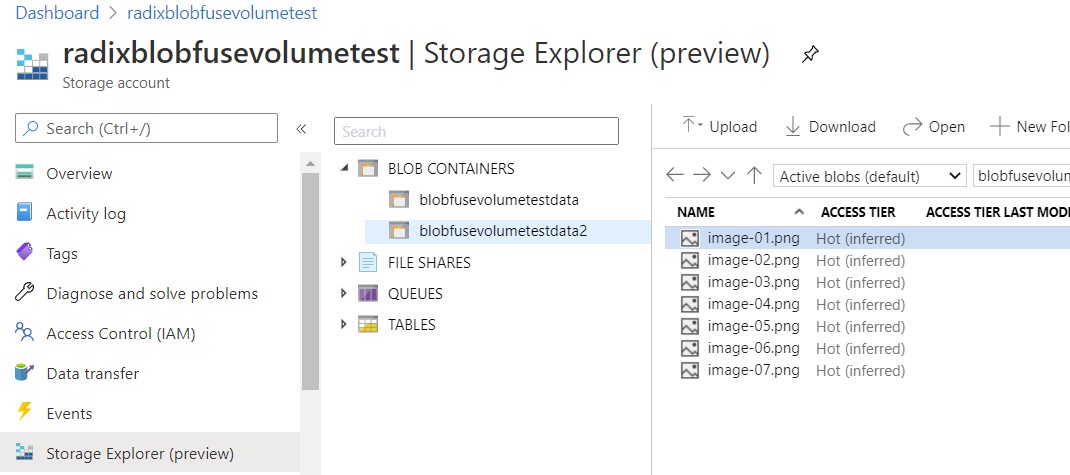
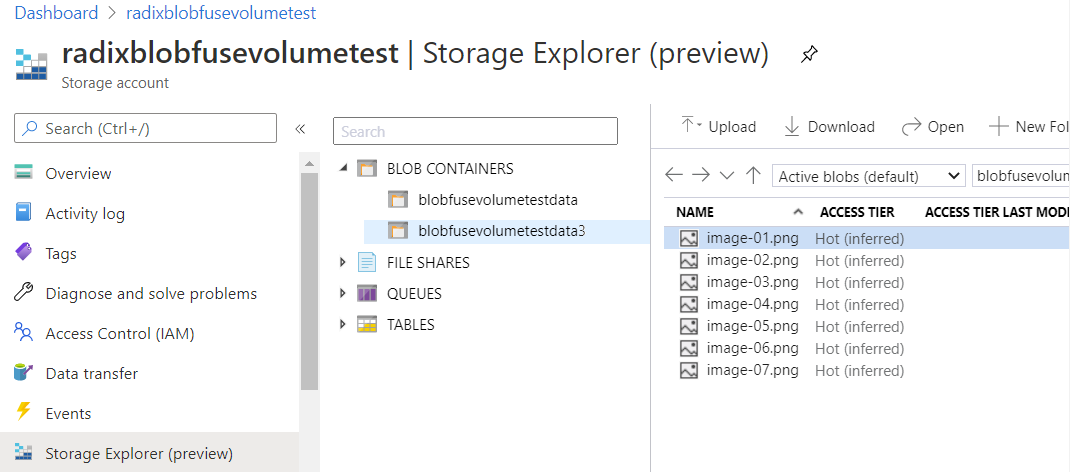
Added documentation for CSI Azure blob storage

diff --git a/public-site/site/guides/volume-mounts/index.md b/public-site/site/guides/volume-mounts/index.md
@@ -5,7 +5,9 @@ parent: ["Guides", "../../guides.html"]
 toc: true
 ---
 
-Currently, we support only one type of volume mount. The supported type is to mount Azure Blob Container using blobfuse FlexVolume driver for Kubernetes. See [this](https://github.com/Azure/kubernetes-volume-drivers/tree/master/flexvolume/blobfuse) for more information.
+The supported volume mount type is to mount CSI Azure Blob Container, using CSI Azure blob driver for Kubernetes. See [this](https://github.com/kubernetes-sigs/blob-csi-driver) for more information.
+
+>Blobfuse FlexVolume is considered obsolete and recommended being replaced with CSI Azure blob driver.
 
 In order to make use of this functionality you have to:
 
@@ -21,11 +23,11 @@ Name of container
 
 ```yaml
       environmentConfig:
-        - environment: prod
+        - environment: dev
           volumeMounts:
-            - type: blob
+            - type: azure-blob
               name: storage
-              container: blobfusevolumetestdata
+              storage: blobfusevolumetestdata
               path: /app/image-storage
 ```
 
@@ -33,7 +35,7 @@ Name of container
 
 ![SetSecrets](SetSecrets.png)
 
-This results in the Kubernetes deployment holding the volume mount in its spec:
+This results in the Kubernetes deployment holding the volume mount in PersistentVolumeClaim and its StorageClass:
 
 ```yaml
       spec:
@@ -42,23 +44,16 @@ This results in the Kubernetes deployment holding the volume mount in its spec:
         ...
       volumeMounts:
         - mountPath: /app/image-storage
-          name: blobfuse-frontend-storage
+          name: csi-az-blob-frontend-storage1-blobfusevolumetestdata
         ...
       volumes:
-        - flexVolume:
-            driver: azure/blobfuse
-            options:
-              container: blobfusevolumetestdata
-              mountoptions: --file-cache-timeout-in-seconds=120
-              name: storage2
-              tmppath: /tmp/radix-blob-fuse-example-prod/frontend/prod/blob/storage/blobfusevolumetestdata
-            secretRef:
-              name: frontend-storage-blobfusecreds
-          name: blobfuse-frontend-storage
+        - name: csi-az-blob-frontend-storage-blobfusevolumetestdata
+          persistentVolumeClaim:
+            claimName: pvc-csi-az-blob-frontend-storage-blobfusevolumetestdata
 ```
 and files appear inside the container. If there are folders within blob container - it will exist in the pod's container as well
 ```shell
-kubectl exec -it -n radix-blob-fuse-example-prod deploy/frontend -- ls -l /app/image-storage
+kubectl exec -it -n radix-csi-azure-example-dev deploy/frontend -- ls -l /app/image-storage
 total 0
 -rwxrwxrwx    1 root     root         21133 Nov 13 13:56 image-01.png
 -rwxrwxrwx    1 root     root         21989 Nov 13 13:56 image-02.png
@@ -71,6 +66,8 @@ Multiple volume mounts are also supported
 * for containers within multiple storage accounts
 * for containers within storage accounts within multiple subscriptions and tenants
 
+Not supported mount from same blob container to different folders within one component.
+
 Multiple containers within one storage account
   ![MultipleContainers](MultipleContainers.png)
 
@@ -81,16 +78,16 @@ To add multiple volumes
     * specify `path` for each `volumeMount`, unique within `volumeMounts` of an environment
     ```yaml
           environmentConfig:
-            - environment: prod
+            - environment: dev
               volumeMounts:
-                - type: blob
+                - type: azure-blob
                   name: storage1
-                  container: blobfusevolumetestdata
+                  storage: blobfusevolumetestdata
                   path: /app/image-storage
-                - type: blob
-                  name: storage2
-                  container: blobfusevolumetestdata2
-                  path: /app/image-storage2
+                - type: azure-blob
+                  name: storage3
+                  storage: blobfusevolumetestdata3
+                  path: /app/image-storage3
     ```
 - After environment has been built, set the generated secret to account name and key, found in step 1 - for each volume. This should ensure that key value is Consistent status. It is recommended to restart a component after a all secrets have been set in the console
 
@@ -105,38 +102,26 @@ This results in the Kubernetes deployment holding the volume mounts in its spec:
         ...
       volumeMounts:
         - mountPath: /app/image-storage
-          name: blobfuse-frontend-storage
+          name: csi-az-blob-frontend-storage1-blobfusevolumetestdata
+        - mountPath: /app/image-storage3
+          name: csi-az-blob-frontend-storage3-blobfusevolumetestdata3
         ...
-        volumes:
-          - flexVolume:
-              driver: azure/blobfuse
-              options:
-                container: blobfusevolumetestdata
-                mountoptions: --file-cache-timeout-in-seconds=120
-                name: storage1
-                tmppath: /tmp/radix-blob-fuse-example-prod/frontend/prod/blob/storage1/blobfusevolumetestdata
-              secretRef:
-                name: frontend-storage1-blobfusecreds
-            name: blobfuse-frontend-storage1
-          - flexVolume:
-              driver: azure/blobfuse
-              options:
-                container: blobfusevolumetestdata2
-                mountoptions: --file-cache-timeout-in-seconds=120
-                name: storage2
-                tmppath: /tmp/radix-blob-fuse-example-prod/frontend/prod/blob/storage2/blobfusevolumetestdata2
-              secretRef:
-                name: frontend-storage2-blobfusecreds
-            name: blobfuse-frontend-storage2
+      volumes:
+        - name: csi-az-blob-frontend-storage1-blobfusevolumetestdata
+          persistentVolumeClaim:
+            claimName: pvc-csi-az-blob-frontend-storage1-blobfusevolumetestdata
+        - name: csi-az-blob-frontend-storage3-blobfusevolumetestdata3
+          persistentVolumeClaim:
+            claimName: pvc-csi-az-blob-frontend-storage3-blobfusevolumetestdata3
 ```
 and files appear inside the container
 
 ```shell
-kubectl exec -it -n radix-blob-fuse-example-prod deploy/frontend -- ls -lR /app
+kubectl exec -it -n radix-csi-azure-example-dev deploy/frontend -- ls -lR /app
 /app:
 total 4
 drwxrwxrwx    2 root     root          4096 Dec 11 15:10 image-storage
-drwxrwxrwx    2 root     root          4096 Dec 11 15:10 image-storage2
+drwxrwxrwx    2 root     root          4096 Dec 11 15:10 image-storage3
 -rw-r--r--    1 root     root          1343 Dec 11 11:52 index.html
 
 /app/image-storage:
@@ -147,7 +132,7 @@ total 0
 -rwxrwxrwx    1 root     root         48391 Nov 26 14:50 image-06.png
 -rwxrwxrwx    1 root     root         47732 Nov 26 14:50 image-07.png
 
-/app/image-storage2:
+/app/image-storage3:
 total 0
 -rwxrwxrwx    1 root     root         27803 Dec 11 11:11 image-01.png
 -rwxrwxrwx    1 root     root         28692 Dec 11 11:11 image-02.png

diff --git a/public-site/site/docs/reference-radix-config/index.md b/public-site/site/docs/reference-radix-config/index.md
@@ -337,7 +337,7 @@ components:
 
 > See [this](../../guides/deploy-only/) guide on how make use of `imageTagName` in a deploy-only scenario.
 
-#### `volumeMounts`
+### `volumeMounts`
 
 ```yaml
 spec:
@@ -346,15 +346,27 @@ spec:
       environmentConfig:
         - environment: prod
           volumeMounts:
-            - type: blob
+            - type: azure-blob
               name: volume-name
-              container: container-name
+              storage: container-name
               path: /path/in/container/to/mount/to
 ```
 
-The `volumeMounts` field of a component environment config is used to be able to mount a blob container into the running container.
+The `volumeMounts` field configures volume mounts within the running component.
 
-The `volumeMounts` field contains the following sub-fields: `type` field can currently only be set to `blob`, `name` is the name of the volume (unique within `volumeMounts` list), `container` is the name of the blob container, and `path` is the folder to mount to inside the running component.
+#### `volumeMounts` settings: 
+* `name` - the name of the volume. Unique within `volumeMounts` list of a component
+* `type` - type of storage. Supported types: 
+  * `azure-blob` - mount a container from blob in [Azure storage account](https://docs.microsoft.com/en-us/azure/storage/common/storage-account-overview). Uses [CSI Azure blob storage driver](https://github.com/kubernetes-sigs/blob-csi-driver). Replaces obsolete type `blob` for Flex Volume obsolete driver.
+
+_Applicable for type: `azure-blob`_
+* `storage` - name of the blob container.
+* `path` - the folder inside the running container, where the external storage is mounted.
+* `gid` - Group ID (number) of a [mounted volume owner](https://kubernetes.io/docs/reference/generated/kubernetes-api/v1.21/#podsecuritycontext-v1-core). It is a Group ID of a user in the running container within component replicas. Usually a user, which is a member of one or multiple [groups](https://en.wikipedia.org/wiki/Group_identifier), is specified in the `Dockerfile` for the component with command `USER`. Read [more details](https://www.radix.equinor.com/docs/topic-docker/#running-as-non-root) about specifying user within `Dockerfile`. It is recommended to use because Blobfuse driver do [not honor fsGroup securityContext settings](https://github.com/kubernetes-sigs/blob-csi-driver/blob/master/docs/driver-parameters.md).  
+
+There are [optional settings](../../guides/volume-mounts/optional-settings/) to fine tune volumes.
+
+Access to the Azure storage need to be set in `secrets` for the component.
 
 > See [this](../../guides/volume-mounts/) guide on how make use of `volumeMounts`.
 
@@ -569,7 +581,7 @@ spec:
       environmentConfig:
         - environment: prod
           volumeMounts:
-            - type: blob
+            - type: azure-blob
               name: volume-name
               container: container-name
               path: /path/in/container/to/mount/to

diff --git a/public-site/site/guides/volume-mounts/optional-settings/index.md b/public-site/site/guides/volume-mounts/optional-settings/index.md
@@ -1,0 +1,31 @@
+---
+title: VolumeMounts
+layout: document
+parent: ["Docs", "../../../docs.html"]
+toc: true
+---
+## [Main settings](../../../docs/reference-radix-config/#volumemounts)
+
+## Optional settings:
+_Applicable for type: `azure-blob`_
+
+* `accessMode` - [access mode](https://kubernetes.io/docs/concepts/storage/persistent-volumes/#access-modes) from container to external storage:
+    * `ReadOnlyMany` - (default) read-only access.
+    * `ReadWriteOnce` - read-write access. Write access allowed from multiple containers, running within one node.
+    * `ReadWriteMany` - read-write access. Write access allowed from multiple containers, running on different nodes. Warning: this mode is potentially destructive, it may lead to [data corruption](https://github.com/kubernetes-sigs/blob-csi-driver/blob/master/docs/limitations.md) in some cases.
+* `bindingMode` - [binding mode](https://kubernetes.io/docs/concepts/storage/storage-classes/#volume-binding-mode) from container to external storage (required valid `StorageAccountKey` and `StorageAccountName` to be set in `secrets`):
+    * `Immediate` - (default) volume mounted on node immediately after deployment.
+    * `WaitForFirstConsumer` - volume mounted when component replica gets running.
+* `skuName` - [SKU Type](https://docs.microsoft.com/en-us/rest/api/storagerp/srp_sku_types) of Azure storage. Supported types:
+    * `Standard_LRS` (default)
+    * `Premium_LRS`
+    * `Standard_GRS`
+    * `Standard_RAGRS`
+* `requestsStorage` - [requested size](https://kubernetes.io/docs/tasks/configure-pod-container/configure-persistent-volume-storage/#create-a-persistentvolumeclaim) of allocated mounted volume. Default value is set to `"1Mi"` (1 megabyte). Current version of the driver does not affect mounted volume size of type `azure-blob`
+* `uid` - User ID (number) of a [mounted volume owner](https://kubernetes.io/docs/reference/generated/kubernetes-api/v1.21/#podsecuritycontext-v1-core). It is a Group ID of a user in the running container within component replicas. Usually a user, which is a member of one or multiple [groups](https://en.wikipedia.org/wiki/Group_identifier), is specified in the `Dockerfile` for the component with command `USER`. Read [more details](https://www.radix.equinor.com/docs/topic-docker/#running-as-non-root) about specifying user within `Dockerfile`. It is recommended to use because Blobfuse driver do [not honor fsGroup securityContext settings](https://github.com/kubernetes-sigs/blob-csi-driver/blob/master/docs/driver-parameters.md). This option can be used instead of the option `gid`.
+
+Volume setting [ReclaimPolice](https://kubernetes.io/docs/concepts/storage/persistent-volumes/#reclaiming) is always set to `Retain` for type `azure-blob`.
+
+Blob CSI driver [has certain limitations](https://github.com/kubernetes-sigs/blob-csi-driver/blob/master/docs/limitations.md).
+
+> See [this](index.md) guide on how make use of `volumeMounts`.
